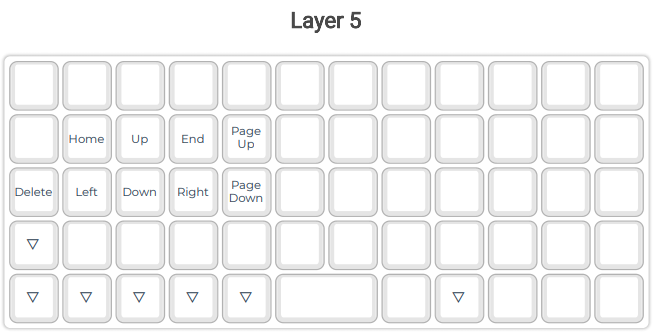
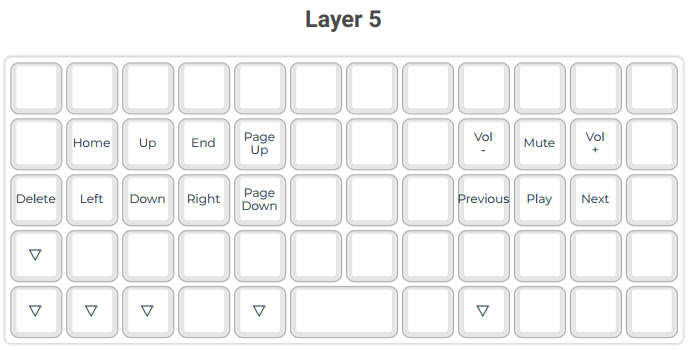
Preonic add media controls

Changed region(s): [[0.0, 0.1506, 1.0, 0.994], [0.4275, 0.0301, 0.5802, 0.0904], [0.0305, 0.8735, 0.0611, 0.9036]]

diff --git a/Preonic/src/qitbit/keymap.c b/Preonic/src/qitbit/keymap.c
@@ -7,10 +7,10 @@
  */
 
 const uint16_t PROGMEM keymaps[][MATRIX_ROWS][MATRIX_COLS] = {
-	[0] = LAYOUT_preonic_1x2uC(KC_NO, KC_1, KC_2, KC_3, KC_4, KC_5, KC_6, KC_7, KC_8, KC_9, KC_0, KC_NO, KC_ESC, KC_Q, KC_W, KC_E, KC_R, KC_T, KC_Y, KC_U, KC_I, KC_O, KC_P, KC_BSPC, KC_TAB, KC_A, KC_S, KC_D, KC_F, KC_G, KC_H, KC_J, KC_K, KC_L, KC_SCLN, KC_QUOT, KC_LSFT, KC_Z, KC_X, KC_C, KC_V, KC_B, KC_N, KC_M, KC_COMM, KC_DOT, KC_SLSH, KC_ENT, KC_LCTL, KC_LGUI, KC_LALT, MO(4), LT(1,KC_DEL), KC_SPC, LT(2,KC_F2), MO(5), KC_F22, KC_NO, KC_F24),
-	[1] = LAYOUT_preonic_1x2uC(KC_NO, KC_NO, KC_NO, KC_NO, KC_NO, KC_NO, KC_NO, KC_NO, KC_NO, KC_LT, KC_GT, KC_NO, KC_GRV, KC_EXLM, KC_AT, KC_HASH, KC_DLR, KC_PERC, KC_CIRC, KC_AMPR, KC_ASTR, KC_LPRN, KC_RPRN, KC_TRNS, KC_NO, RCS(KC_TAB), KC_NO, LCTL(KC_TAB), KC_NO, KC_NO, KC_NO, KC_UNDS, KC_PLUS, KC_LCBR, KC_RCBR, KC_BSLS, KC_TRNS, KC_NO, KC_NO, KC_NO, KC_NO, KC_NO, KC_NO, KC_MINS, KC_EQL, KC_LBRC, KC_RBRC, KC_TRNS, KC_TRNS, KC_TRNS, KC_TRNS, KC_TRNS, KC_TRNS, KC_TRNS, MO(3), KC_NO, KC_NO, KC_NO, KC_NO),
-	[2] = LAYOUT_preonic_1x2uC(KC_NO, KC_NO, KC_NO, KC_NO, KC_NO, KC_NO, KC_NO, KC_NO, KC_NO, KC_NO, KC_NO, KC_NO, KC_TILD, KC_F13, KC_F14, KC_F15, KC_F16, KC_F17, KC_F18, KC_NO, KC_NO, KC_NO, KC_NO, KC_TRNS, KC_NO, KC_F1, KC_F2, KC_F3, KC_F4, KC_F5, KC_F6, KC_NO, KC_NO, KC_NO, KC_NO, KC_PIPE, KC_NO, KC_F7, KC_F8, KC_F9, KC_F10, KC_F11, KC_F12, KC_NO, KC_NO, KC_NO, KC_NO, KC_TRNS, KC_TRNS, KC_TRNS, KC_TRNS, KC_TRNS, KC_NO, KC_TRNS, KC_TRNS, KC_NO, KC_NO, KC_NO, KC_NO),
-	[3] = LAYOUT_preonic_1x2uC(RESET, KC_NO, KC_NO, KC_NO, KC_NO, KC_NO, KC_NO, KC_NO, KC_NO, KC_NO, KC_NO, KC_NO, KC_NO, KC_NO, KC_NO, KC_NO, KC_NO, KC_NO, KC_NO, KC_NO, KC_NO, KC_NO, KC_NO, KC_NO, KC_NO, KC_NO, KC_NO, KC_NO, KC_NO, AG_SWAP, AG_NORM, KC_NO, KC_NO, KC_NO, KC_NO, KC_NO, KC_NO, KC_NO, KC_NO, KC_NO, KC_NO, KC_NO, KC_NO, KC_NO, KC_NO, KC_NO, KC_NO, RGB_TOG, KC_NO, KC_NO, KC_NO, KC_NO, KC_TRNS, KC_NO, KC_TRNS, KC_NO, KC_NO, KC_NO, KC_NO),
-	[4] = LAYOUT_preonic_1x2uC(KC_NO, KC_NO, KC_NO, KC_NO, KC_NO, KC_NO, KC_NO, KC_NO, KC_NO, KC_NO, KC_NO, KC_NO, KC_NO, KC_NO, KC_NO, KC_NO, KC_NO, KC_NO, KC_NO, KC_NO, KC_7, KC_8, KC_9, KC_TRNS, KC_NO, KC_NO, KC_NO, KC_NO, KC_NO, KC_NO, KC_NO, KC_NO, KC_4, KC_5, KC_6, KC_NO, KC_TRNS, KC_NO, KC_NO, KC_NO, KC_NO, KC_NO, KC_NO, KC_NO, KC_1, KC_2, KC_3, KC_NO, KC_TRNS, KC_TRNS, KC_TRNS, KC_TRNS, KC_TRNS, KC_NO, KC_NO, KC_0, KC_NO, KC_DOT, KC_NO),
-	[5] = LAYOUT_preonic_1x2uC(KC_NO, KC_NO, KC_NO, KC_NO, KC_NO, KC_NO, KC_NO, KC_NO, KC_NO, KC_NO, KC_NO, KC_NO, KC_NO, KC_HOME, KC_UP, KC_END, KC_PGUP, KC_NO, KC_NO, KC_NO, KC_NO, KC_NO, KC_NO, KC_NO, KC_DEL, KC_LEFT, KC_DOWN, KC_RGHT, KC_PGDN, KC_NO, KC_NO, KC_NO, KC_NO, KC_NO, KC_NO, KC_NO, KC_TRNS, KC_NO, KC_NO, KC_NO, KC_NO, KC_NO, KC_NO, KC_NO, KC_NO, KC_NO, KC_NO, KC_NO, KC_TRNS, KC_TRNS, KC_TRNS, KC_TRNS, KC_TRNS, KC_NO, KC_NO, KC_TRNS, KC_NO, KC_NO, KC_NO)
+        [0] = LAYOUT_preonic_1x2uC(KC_NO, KC_1, KC_2, KC_3, KC_4, KC_5, KC_6, KC_7, KC_8, KC_9, KC_0, KC_NO, KC_ESC, KC_Q, KC_W, KC_E, KC_R, KC_T, KC_Y, KC_U, KC_I, KC_O, KC_P, KC_BSPC, KC_TAB, KC_A, KC_S, KC_D, KC_F, KC_G, KC_H, KC_J, KC_K, KC_L, KC_SCLN, KC_QUOT, KC_LSFT, KC_Z, KC_X, KC_C, KC_V, KC_B, KC_N, KC_M, KC_COMM, KC_DOT, KC_SLSH, KC_ENT, KC_LCTL, KC_LGUI, KC_LALT, MO(4), LT(1,KC_DEL), KC_SPC, LT(2,KC_F2), MO(5), KC_F22, KC_NO, KC_F24),
+        [1] = LAYOUT_preonic_1x2uC(KC_NO, KC_NO, KC_NO, KC_NO, KC_NO, KC_NO, KC_NO, KC_NO, KC_NO, KC_LT, KC_GT, KC_NO, KC_GRV, KC_EXLM, KC_AT, KC_HASH, KC_DLR, KC_PERC, KC_CIRC, KC_AMPR, KC_ASTR, KC_LPRN, KC_RPRN, KC_TRNS, KC_NO, RCS(KC_TAB), KC_NO, LCTL(KC_TAB), KC_NO, KC_NO, KC_NO, KC_UNDS, KC_PLUS, KC_LCBR, KC_RCBR, KC_BSLS, KC_TRNS, KC_NO, KC_NO, KC_NO, KC_NO, KC_NO, KC_NO, KC_MINS, KC_EQL, KC_LBRC, KC_RBRC, KC_TRNS, KC_TRNS, KC_TRNS, KC_TRNS, KC_TRNS, KC_TRNS, KC_TRNS, MO(3), KC_NO, KC_NO, KC_NO, KC_NO),
+        [2] = LAYOUT_preonic_1x2uC(KC_NO, KC_NO, KC_NO, KC_NO, KC_NO, KC_NO, KC_NO, KC_NO, KC_NO, KC_NO, KC_NO, KC_NO, KC_TILD, KC_F13, KC_F14, KC_F15, KC_F16, KC_F17, KC_F18, KC_NO, KC_NO, KC_NO, KC_NO, KC_TRNS, KC_NO, KC_F1, KC_F2, KC_F3, KC_F4, KC_F5, KC_F6, KC_NO, KC_NO, KC_NO, KC_NO, KC_PIPE, KC_NO, KC_F7, KC_F8, KC_F9, KC_F10, KC_F11, KC_F12, KC_NO, KC_NO, KC_NO, KC_NO, KC_TRNS, KC_TRNS, KC_TRNS, KC_TRNS, KC_TRNS, KC_NO, KC_TRNS, KC_TRNS, KC_NO, KC_NO, KC_NO, KC_NO),
+        [3] = LAYOUT_preonic_1x2uC(RESET, KC_NO, KC_NO, KC_NO, KC_NO, KC_NO, KC_NO, KC_NO, KC_NO, KC_NO, KC_NO, KC_NO, KC_NO, KC_NO, KC_NO, KC_NO, KC_NO, KC_NO, KC_NO, KC_NO, KC_NO, KC_NO, KC_NO, KC_NO, KC_NO, KC_NO, KC_NO, KC_NO, KC_NO, AG_SWAP, AG_NORM, KC_NO, KC_NO, KC_NO, KC_NO, KC_NO, KC_NO, KC_NO, KC_NO, KC_NO, KC_NO, KC_NO, KC_NO, KC_NO, KC_NO, KC_NO, KC_NO, RGB_TOG, KC_NO, KC_NO, KC_NO, KC_NO, KC_TRNS, KC_NO, KC_TRNS, KC_NO, KC_NO, KC_NO, KC_NO),
+        [4] = LAYOUT_preonic_1x2uC(KC_NO, KC_NO, KC_NO, KC_NO, KC_NO, KC_NO, KC_NO, KC_NO, KC_NO, KC_NO, KC_NO, KC_NO, KC_NO, KC_NO, KC_NO, KC_NO, KC_NO, KC_NO, KC_NO, KC_NO, KC_7, KC_8, KC_9, KC_TRNS, KC_NO, KC_NO, KC_NO, KC_NO, KC_NO, KC_NO, KC_NO, KC_NO, KC_4, KC_5, KC_6, KC_NO, KC_TRNS, KC_NO, KC_NO, KC_NO, KC_NO, KC_NO, KC_NO, KC_NO, KC_1, KC_2, KC_3, KC_NO, KC_TRNS, KC_TRNS, KC_TRNS, KC_TRNS, KC_TRNS, KC_NO, KC_NO, KC_0, KC_NO, KC_DOT, KC_NO),
+        [5] = LAYOUT_preonic_1x2uC(KC_NO, KC_NO, KC_NO, KC_NO, KC_NO, KC_NO, KC_NO, KC_NO, KC_NO, KC_NO, KC_NO, KC_NO, KC_NO, KC_HOME, KC_UP, KC_END, KC_PGUP, KC_NO, KC_NO, KC_NO, KC_VOLD, KC_MUTE, KC_VOLU, KC_NO, KC_DEL, KC_LEFT, KC_DOWN, KC_RGHT, KC_PGDN, KC_NO, KC_NO, KC_NO, KC_MPRV, KC_MPLY, KC_MNXT, KC_NO, KC_TRNS, KC_NO, KC_NO, KC_NO, KC_NO, KC_NO, KC_NO, KC_NO, KC_NO, KC_NO, KC_NO, KC_NO, KC_TRNS, KC_TRNS, KC_TRNS, KC_NO, KC_TRNS, KC_NO, KC_NO, KC_TRNS, KC_NO, KC_NO, KC_NO)
 };
